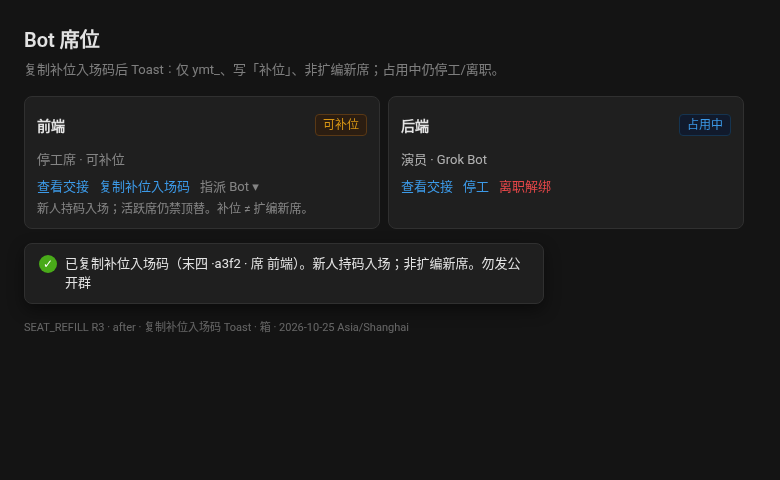
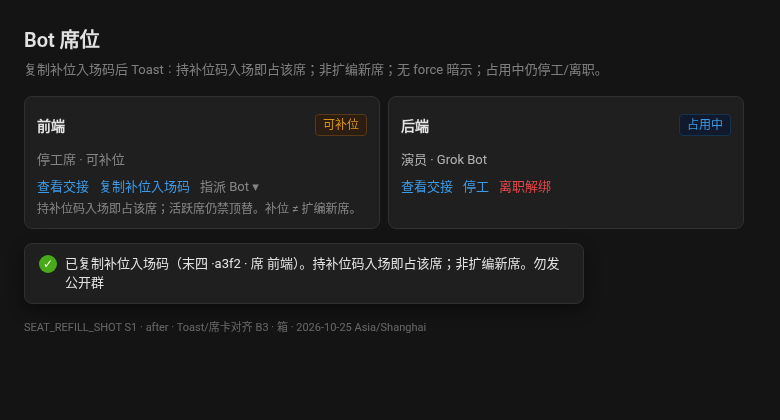
docs(qa): SEAT_REFILL_SHOT S1 重截 after/before 对齐 B3
Toast/席卡「持补位码入场即占该席」；无 force 暗示；箱 Chrome headless。
源码仍以 0c5f67b 为准；∥ C2 不停。

diff --git a/docs/NEXT_WAVE_DEBT_SEAT_REFILL_SHOT.md b/docs/NEXT_WAVE_DEBT_SEAT_REFILL_SHOT.md
@@ -40,10 +40,11 @@
 
 ## 进度注记
 
+- 2026-10-25 01:08 · **React 交 S1** 重截 `seat-refill-{before,after}.png`：Toast/席卡「持补位码入场即占该席」对齐 B3（`0c5f67b`）；无 force 暗示；箱 Chrome headless。等产品 S2。∥ C2 不停。
 - 2026-10-25 01:06 · 固化：本刀 soft† ∥ C2；软债其余搁置见 [`SOFT_RULING`](./NEXT_WAVE_DEBT_SOFT_RULING_20261025.md)。
 - 2026-10-25 01:05 · **短票统一**：本刀 soft† 与 C2 **并行**；不挡主航线。
 - 2026-10-25 01:04 · （已取代）曾独开本刀收 C2；总指挥反对后改并行。
 
 ## 关单进度
 
-**开干** · 等 React S1（∥ C2）。
+**开干** · React S1 已交；等产品 S2（∥ C2）。
